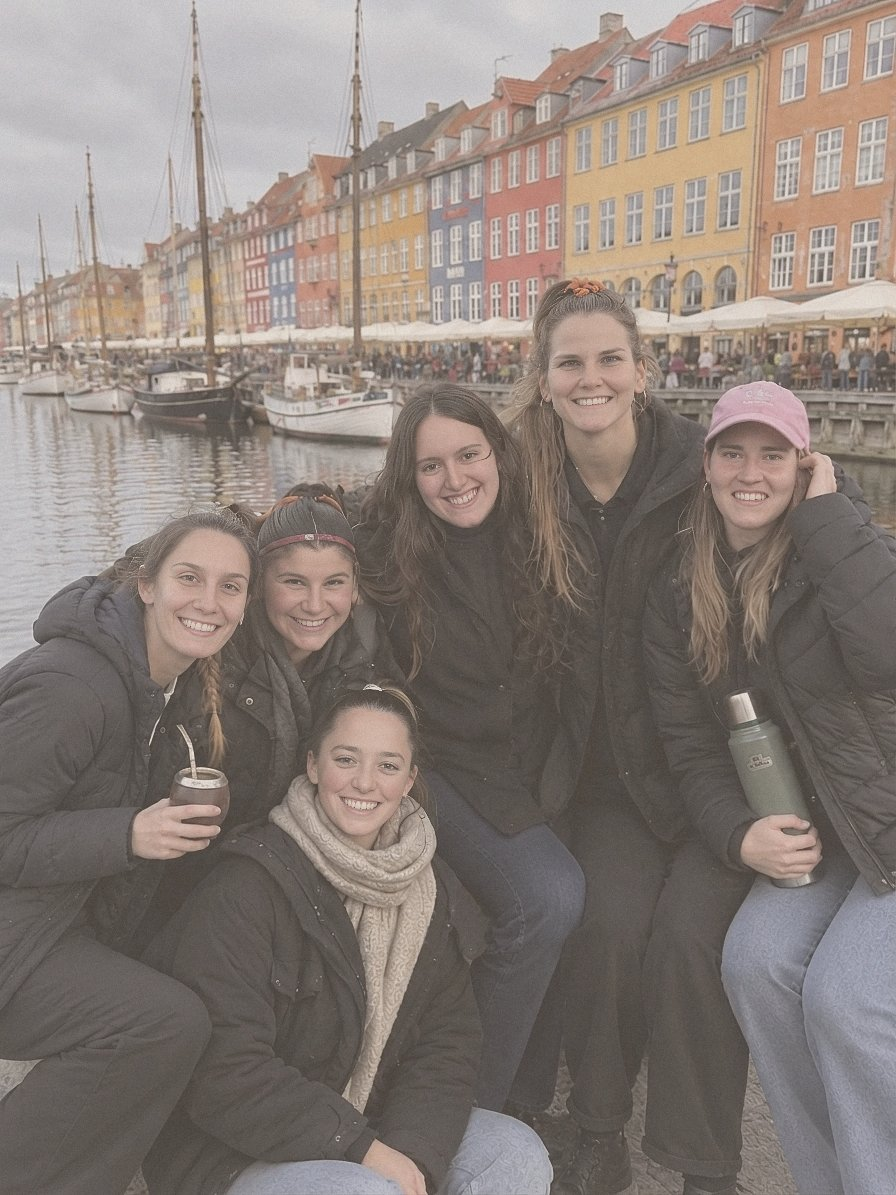
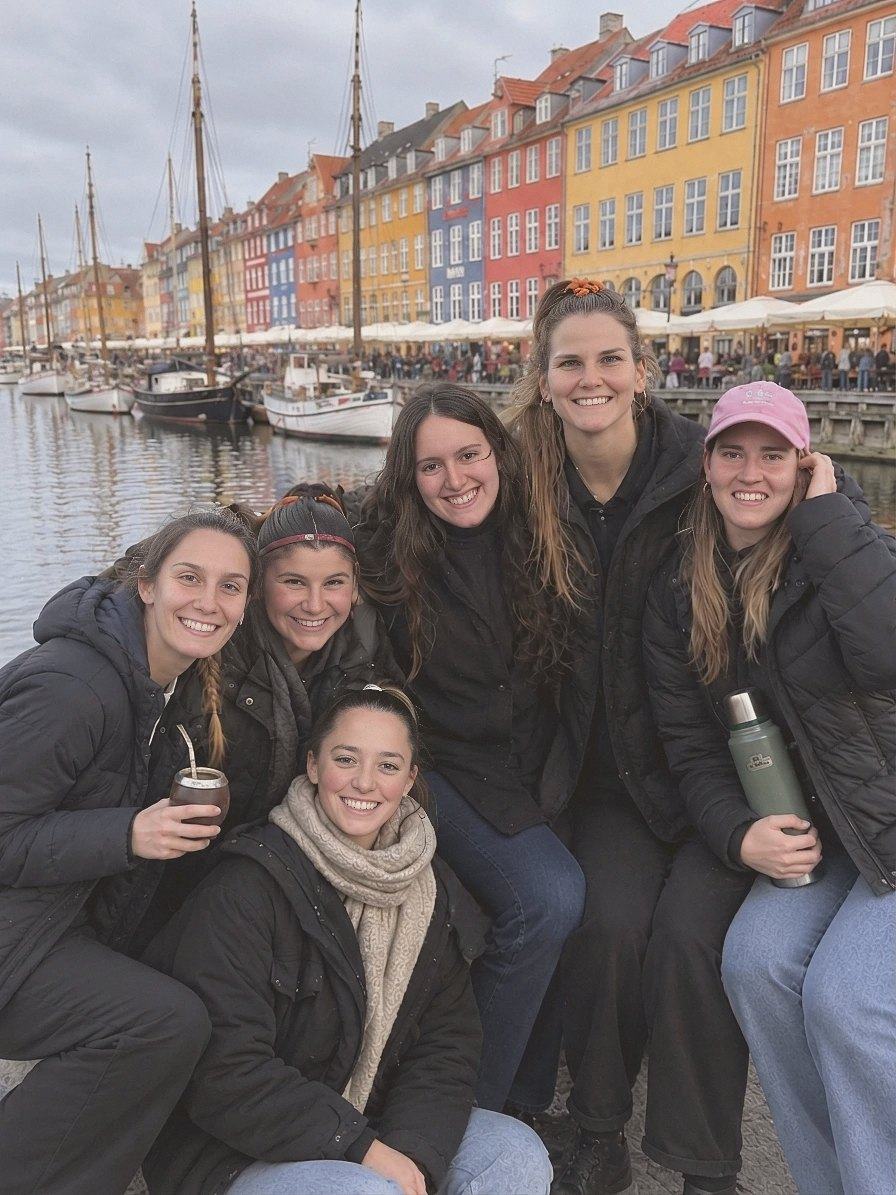
Filtro de la bienvenida más tenue

diff --git a/index.html b/index.html
@@ -15,10 +15,10 @@
   <link rel="preconnect" href="https://fonts.googleapis.com">
   <link rel="preconnect" href="https://fonts.gstatic.com" crossorigin>
   <link href="https://fonts.googleapis.com/css2?family=Patrick+Hand&family=Patrick+Hand+SC&display=swap" rel="stylesheet">
-  <link rel="stylesheet" href="styles.css?v=20261111f">
+  <link rel="stylesheet" href="styles.css?v=20261111g">
 </head>
 <body>
   <div id="app"></div>
-  <script type="module" src="app.js?v=20261111f"></script>
+  <script type="module" src="app.js?v=20261111g"></script>
 </body>
 </html>

diff --git a/config.js b/config.js
@@ -6,7 +6,7 @@ export const CONFIG = {
   firma: 'Tus amigas',
 
   // Foto de la bienvenida (opcional). Por ejemplo 'bienvenida.jpg' dentro de esta carpeta.
-  fotoBienvenida: 'bienvenida.jpg?v=2',
+  fotoBienvenida: 'bienvenida.jpg?v=3',
   pieFotoBienvenida: 'Nosotras en Copenhague\n(en nuestros sueños, por ahora)',
 
   // Firestore: se pega acá la configuración de la app web de Firebase.

diff --git a/app.js b/app.js
@@ -1,5 +1,5 @@
-import { CONFIG } from './config.js?v=20261111f';
-import { DIBUJOS as D } from './dibujos.js?v=20261111f';
+import { CONFIG } from './config.js?v=20261111g';
+import { DIBUJOS as D } from './dibujos.js?v=20261111g';
 
 const SECCIONES = [
   { id: 'melancolia', nombre: 'Melancolía', bajada: 'Fotos y recuerdos de antes', giro: -1.5, dibujo: 'escudo' },
